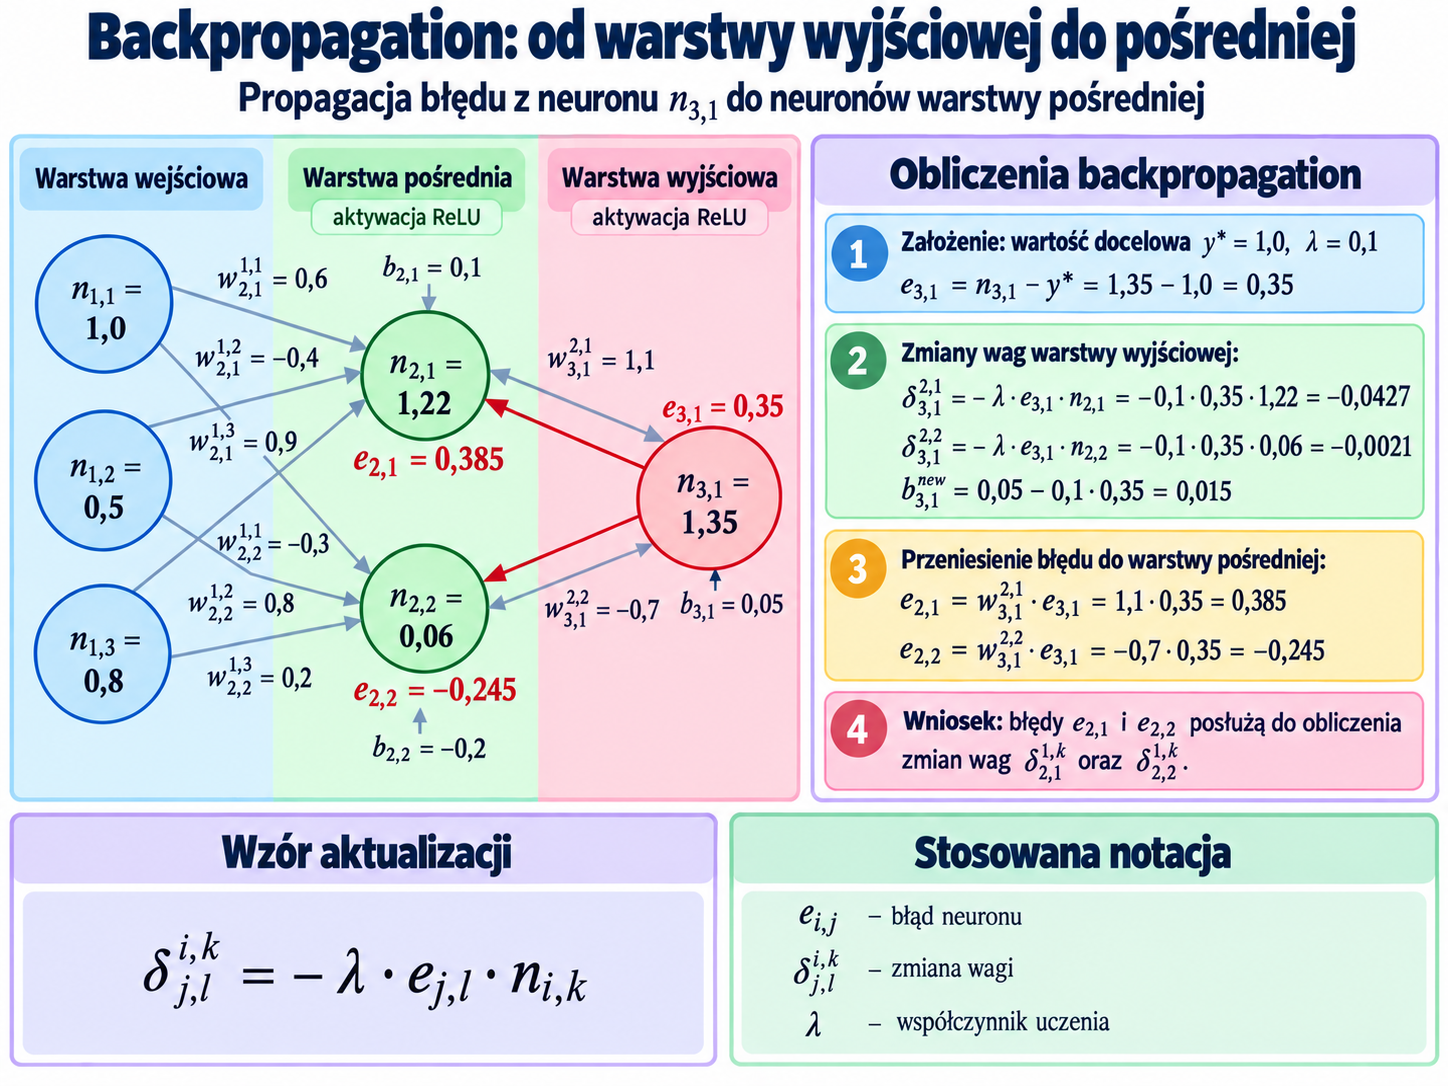
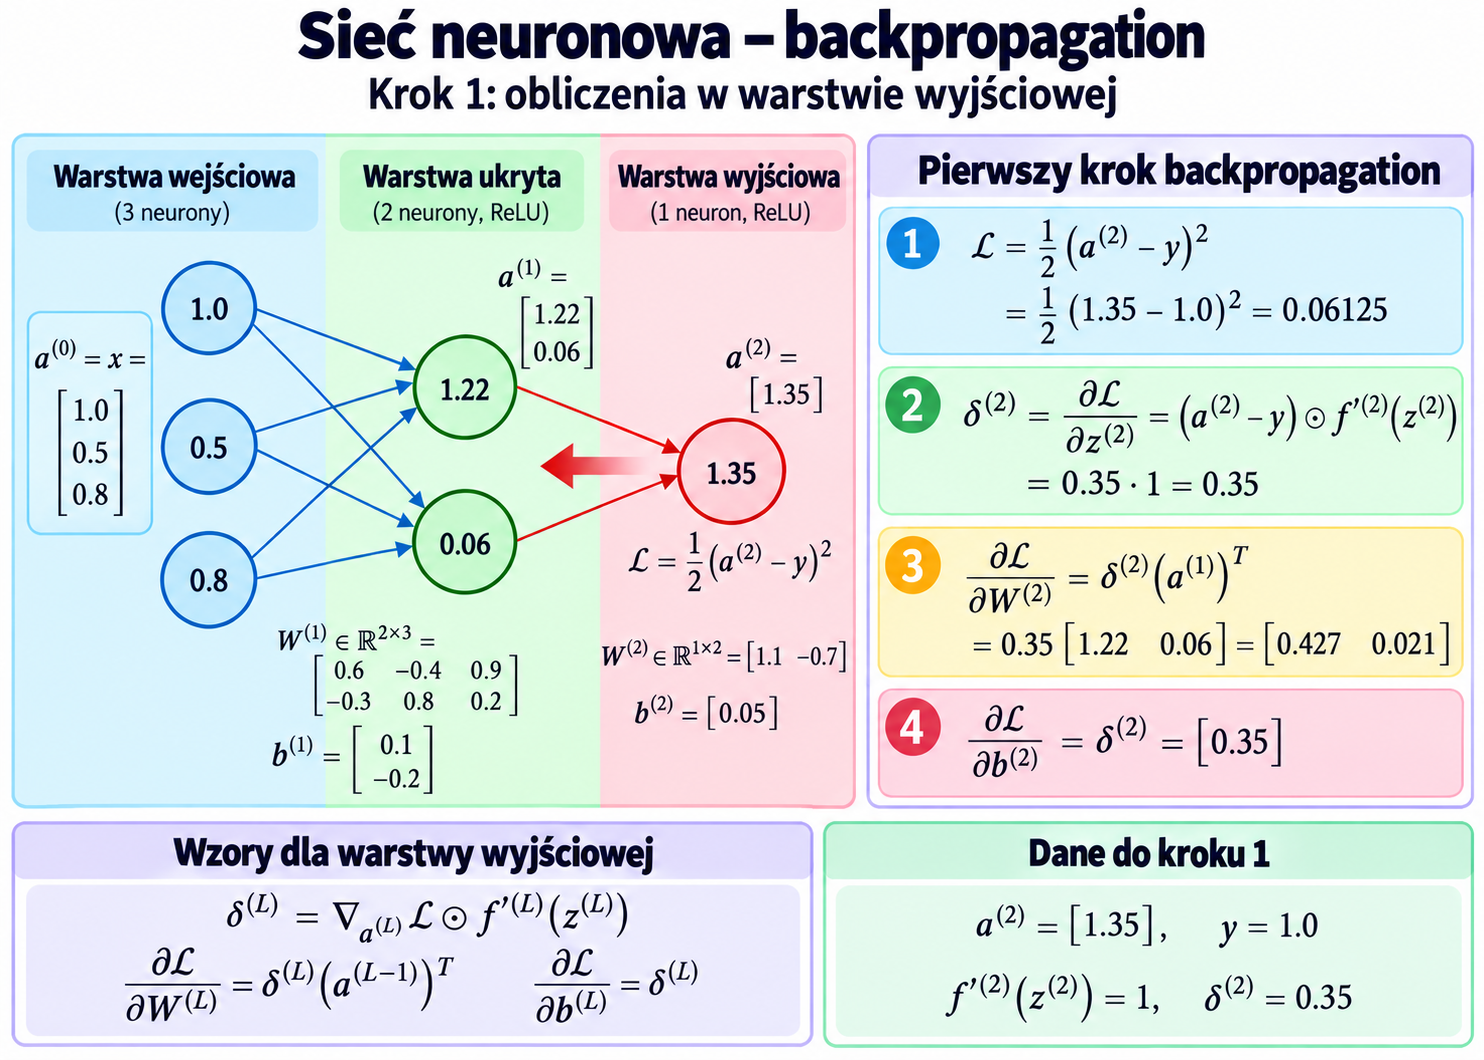
Poprawki merytoryczne

diff --git a/README.md b/README.md
@@ -218,8 +218,47 @@ Propagacja w przód jest mechanizmem, który pozwala uzyskiwać prognozy po wpro
 
 Warstwa wejścia dostarcza danych liczbowych do neuronów pierwszej warstwy ukrytej. Każdy taki neuron z osobna w warstwie ma własny zestaw wag oraz wyraz wolny, zwany *biasem*, którymi traktuje dane wejściowe. Suma iloczynu skalarnego wektora wag i wektora danych wejściowych oraz wyrazu wolnego po zastosowaniu funkcji aktywacji stanowi sygnał wyjściowy danego neuronu. Sygnał ten następnie jest przekazywany do następnej warstwy oraz ich neuronów i traktowany w ten sam sposób.
 
+Dla wejścia:
 $$
-n(x) = f(\sum_i{w_i x_i} + b)
+a^{(0)} = x
+$$
+Dla każdej warstwy $l=1,\dots,L$:
+$$
+z^{(l)} = W^{(l)}a^{(l-1)} + b^{(l)}
+$$
+następnie:
+$$
+a^{(l)} = f^{(l)}\left(z^{(l)}\right)
+$$
+Czyli cały krok dla jednej warstwy można zapisać jako:
+$$
+a^{(l)}
+=
+f^{(l)}
+\left(
+W^{(l)}a^{(l-1)} + b^{(l)}
+\right)
+$$
+A dla całej sieci:
+$$
+a^{(L)}
+=
+f^{(L)}
+\left(
+W^{(L)}
+f^{(L-1)}
+\left(
+W^{(L-1)}
+\dots
+f^{(1)}
+\left(
+W^{(1)}x+b^{(1)}
+\right)
+\dots
++b^{(L-1)}
+\right)
++b^{(L)}
+\right)
 $$
 
 Sygnały z ostatniej warstwy ukrytej dochodzą do warstwy wyjściowej.
@@ -377,7 +416,7 @@ Współczynnik uczenia określa wielkość kroku wykonywanego przez algorytm kor
 
 #### Interpretacje sieci głębokich
 
-Pierwszą interpretacją, jaką proponuje R. Hurbans w [RHu] jest to, że kolejne warstwy przekształcają reprezentację danych w taką, w której cechy istotne dla zadania stają się łatwiejsze do wykorzystania przez kolejne warstwy, co ułatwia w ostatniej warstwie wskazanie poprawnej prognozy dzięki widocznym cechom.
+Pierwszą interpretacją, jaką proponuje R. Hurbans w [RHu] jest to, że kolejne warstwy przekształcają reprezentację danych w taką, w której cechy istotne dla zadania stają się łatwiejsze do wykorzystania przez kolejne warstwy, co ułatwia w ostatniej warstwie wskazanie poprawnej prognozy dzięki uwidocznionym cechom.
 
 
 ![image](imgs/grupowanie%20danych%20w%20klasy.png)
